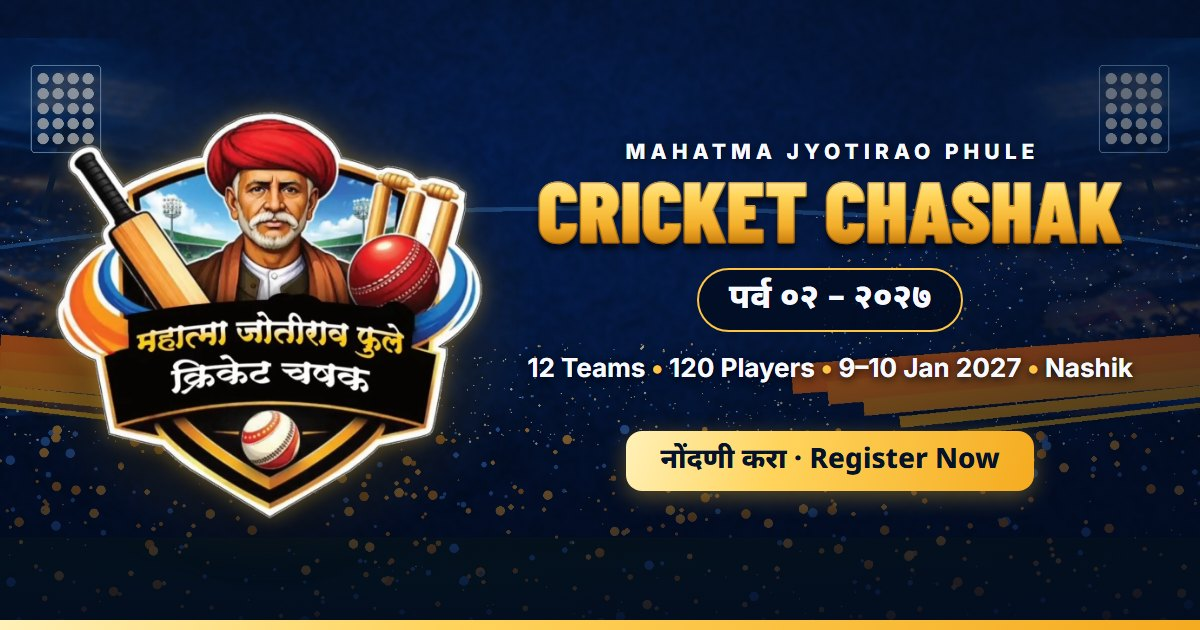
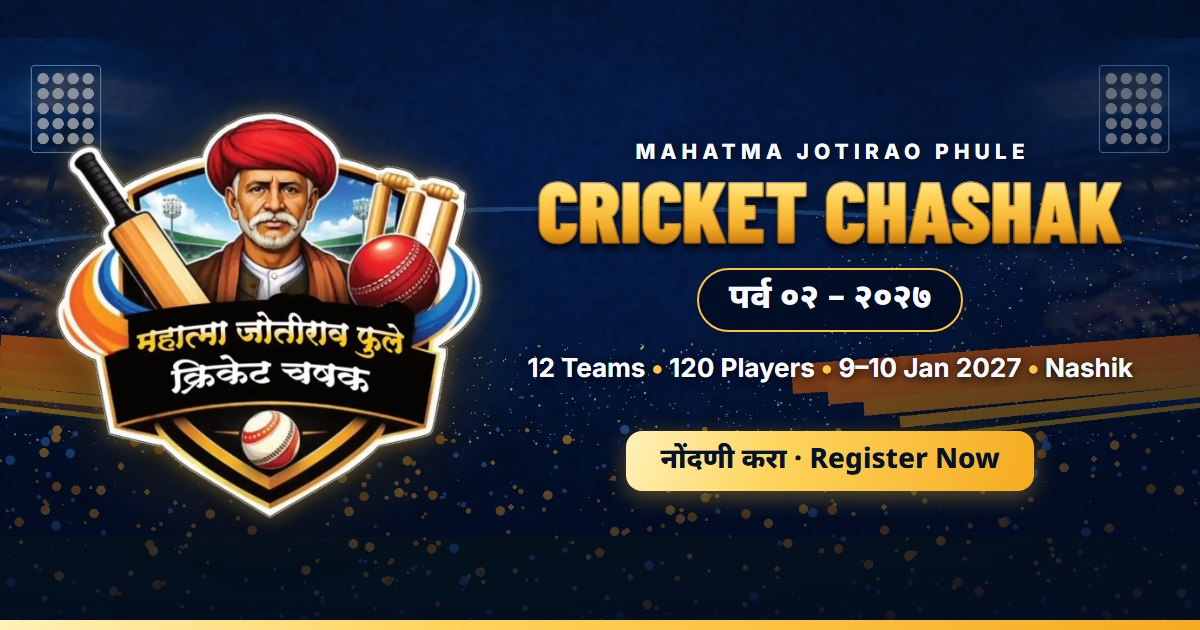
Hide prize money and update the tournament name spelling
- Prize amounts are not announced yet: all amounts set to null, so
  the prize cards, individual awards and ticker show trophies with a
  "prize money to be announced" note instead of rupee figures.
  Owner and player registration fees are unchanged.
- Tournament name is now "महात्मा जोतीराव फुले क्रिकेट चषक" /
  "Mahatma Jotirao Phule Cricket Chashak" everywhere, including the
  page title, link-preview tags and a regenerated share image.
- Marathi venue address: जायभावे फार्म.

Changed region(s): [[0.5242, 0.2111, 0.8633, 0.2714]]

diff --git a/js/config.js b/js/config.js
@@ -1,6 +1,6 @@
 /* =====================================================================
    SITE CONFIG — EDIT EVERYTHING HERE
-   महात्मा ज्योतिराव फुले क्रिकेट चषक – पर्व ०२ - २०२७
+   महात्मा जोतीराव फुले क्रिकेट चषक – पर्व ०२ - २०२७
    ---------------------------------------------------------------------
    • Text can be a plain string            "Text"
      or bilingual                          { mr: "मराठी", en: "English" }
@@ -16,8 +16,8 @@ window.SITE_CONFIG = {
 
   /* ---------- Tournament identity ---------- */
   tournament: {
-    name: { mr: "महात्मा ज्योतिराव फुले क्रिकेट चषक", en: "Mahatma Jyotirao Phule Cricket Chashak" },
-    nameLine1: { mr: "महात्मा ज्योतिराव फुले", en: "Mahatma Jyotirao Phule" },
+    name: { mr: "महात्मा जोतीराव फुले क्रिकेट चषक", en: "Mahatma Jotirao Phule Cricket Chashak" },
+    nameLine1: { mr: "महात्मा जोतीराव फुले", en: "Mahatma Jotirao Phule" },
     nameLine2: { mr: "क्रिकेट चषक", en: "Cricket Chashak" },
     shortName: { mr: "फुले क्रिकेट चषक", en: "Phule Cricket Chashak" },
     season: { mr: "पर्व ०२ – २०२७", en: "Season 02 – 2027" },
@@ -59,17 +59,19 @@ window.SITE_CONFIG = {
     ],
 
     prizes: {
-      team: [ // amounts in ₹ (numbers only)
-        { place: 1, title: { mr: "विजेता", en: "Winner" }, amount: 51000, extra: { mr: "+ भव्य चषक", en: "+ Champions Trophy" } },   // DUMMY amount
-        { place: 2, title: { mr: "उपविजेता", en: "Runner-up" }, amount: 31000, extra: { mr: "+ चषक", en: "+ Trophy" } },          // DUMMY amount
-        { place: 3, title: { mr: "तृतीय क्रमांक", en: "3rd Place" }, amount: 21000, extra: { mr: "+ चषक", en: "+ Trophy" } },     // DUMMY amount
-        { place: 4, title: { mr: "चतुर्थ क्रमांक", en: "4th Place" }, amount: 11000, extra: { mr: "+ चषक", en: "+ Trophy" } },    // DUMMY amount
+      // Prize money is not announced yet: amount: null hides it and shows "to be announced".
+      // To publish, replace null with the amount in rupees (numbers only, no commas)
+      team: [
+        { place: 1, title: { mr: "विजेता", en: "Winner" }, amount: null, extra: { mr: "+ भव्य चषक", en: "+ Champions Trophy" } },
+        { place: 2, title: { mr: "उपविजेता", en: "Runner-up" }, amount: null, extra: { mr: "+ चषक", en: "+ Trophy" } },
+        { place: 3, title: { mr: "तृतीय क्रमांक", en: "3rd Place" }, amount: null, extra: { mr: "+ चषक", en: "+ Trophy" } },
+        { place: 4, title: { mr: "चतुर्थ क्रमांक", en: "4th Place" }, amount: null, extra: { mr: "+ चषक", en: "+ Trophy" } },
       ],
       individual: [
-        { icon: "bat", title: { mr: "सर्वोत्कृष्ट फलंदाज", en: "Best Batter" }, amount: 5001, extra: { mr: "+ चषक", en: "+ Trophy" } },      // DUMMY
-        { icon: "ball", title: { mr: "सर्वोत्कृष्ट गोलंदाज", en: "Best Bowler" }, amount: 5001, extra: { mr: "+ चषक", en: "+ Trophy" } },     // DUMMY
-        { icon: "hand", title: { mr: "सर्वोत्कृष्ट क्षेत्ररक्षक", en: "Best Fielder" }, amount: 3001, extra: { mr: "+ चषक", en: "+ Trophy" } }, // DUMMY
-        { icon: "star", title: { mr: "मालिकावीर (MVP)", en: "MVP – Player of the Series" }, amount: 7001, extra: { mr: "+ चषक", en: "+ Trophy" } }, // DUMMY
+        { icon: "bat", title: { mr: "सर्वोत्कृष्ट फलंदाज", en: "Best Batter" }, amount: null, extra: { mr: "+ चषक", en: "+ Trophy" } },
+        { icon: "ball", title: { mr: "सर्वोत्कृष्ट गोलंदाज", en: "Best Bowler" }, amount: null, extra: { mr: "+ चषक", en: "+ Trophy" } },
+        { icon: "hand", title: { mr: "सर्वोत्कृष्ट क्षेत्ररक्षक", en: "Best Fielder" }, amount: null, extra: { mr: "+ चषक", en: "+ Trophy" } },
+        { icon: "star", title: { mr: "मालिकावीर (MVP)", en: "MVP – Player of the Series" }, amount: null, extra: { mr: "+ चषक", en: "+ Trophy" } },
       ],
     },
 
@@ -89,7 +91,7 @@ window.SITE_CONFIG = {
     venue: {
       name: { mr: "क्रीडाधाम प्रीमियम मल्टीस्पोर्ट क्लब", en: "Kridadham Premium Multisport Club" },
       address: {
-        mr: "जयभावे फार्म, गुरु गोविंद सिंग कॉलेजजवळ, इंदिरा नगर, नाशिक",
+        mr: "जायभावे फार्म, गुरु गोविंद सिंग कॉलेजजवळ, इंदिरा नगर, नाशिक",
         en: "Jaybhave Farm, Near Guru Gobind Singh College, Indira Nagar, Nashik",
       },
       city: { mr: "नाशिक", en: "Nashik" },
@@ -132,8 +134,8 @@ window.SITE_CONFIG = {
     // DUMMY draft – edit freely
     story: [
       {
-        mr: "२०२६ मध्ये नाशिकच्या मातीत एका नव्या क्रिकेट परंपरेचा जन्म झाला. महात्मा ज्योतिराव फुले क्रिकेट चषकाच्या पहिल्या पर्वात ११ संघ मैदानात उतरले आणि प्रेक्षकांच्या उदंड प्रतिसादात समता, बंधुता आणि खिलाडूवृत्तीचा खरा उत्सव साजरा झाला.",
-        en: "In 2026, a new cricket tradition was born on the grounds of Nashik. The first season of the Mahatma Jyotirao Phule Cricket Chashak brought 11 teams onto the field, cheered on by passionate crowds, in a true celebration of equality, brotherhood and sportsmanship.",
+        mr: "२०२६ मध्ये नाशिकच्या मातीत एका नव्या क्रिकेट परंपरेचा जन्म झाला. महात्मा जोतीराव फुले क्रिकेट चषकाच्या पहिल्या पर्वात ११ संघ मैदानात उतरले आणि प्रेक्षकांच्या उदंड प्रतिसादात समता, बंधुता आणि खिलाडूवृत्तीचा खरा उत्सव साजरा झाला.",
+        en: "In 2026, a new cricket tradition was born on the grounds of Nashik. The first season of the Mahatma Jotirao Phule Cricket Chashak brought 11 teams onto the field, cheered on by passionate crowds, in a true celebration of equality, brotherhood and sportsmanship.",
       },
       {
         mr: "प्रत्येक चौकार, प्रत्येक बळी आणि प्रत्येक झेलाने एकच संदेश दिला — मैदानात सगळे समान! पहिल्या पर्वाच्या या सुवर्ण आठवणी आता पर्व २ साठी नवी प्रेरणा आहेत.",
@@ -409,6 +411,8 @@ window.SITE_CONFIG = {
     prizesTitle: { mr: "विजयासाठी भव्य बक्षिसे", en: "Play for glory & big prizes" },
     individualAwards: { mr: "वैयक्तिक पुरस्कार", en: "Individual awards" },
     winnerPrize: { mr: "विजेत्याला", en: "for the winner" },
+    prizeTba: { mr: "बक्षीस रक्कम लवकरच जाहीर होईल", en: "Prize money to be announced soon" },
+    prizesNote: { mr: "विजेत्या संघांना आणि खेळाडूंना चषक. बक्षिसांची रक्कम लवकरच जाहीर केली जाईल.", en: "Trophies for the winning teams and players. Prize money will be announced soon." },
 
     scheduleEyebrow: { mr: "वेळापत्रक", en: "Schedule" },
     scheduleTitle: { mr: "लिलाव आणि स्पर्धेचे वेळापत्रक", en: "Auction & tournament schedule" },
@@ -421,7 +425,7 @@ window.SITE_CONFIG = {
 
     quotesEyebrow: { mr: "प्रेरणा", en: "Inspiration" },
     quotesTitle: { mr: "महात्मा फुले यांचे विचार", en: "Words of Mahatma Phule" },
-    portraitCaption: { mr: "महात्मा ज्योतिराव फुले", en: "Mahatma Jyotirao Phule" },
+    portraitCaption: { mr: "महात्मा जोतीराव फुले", en: "Mahatma Jotirao Phule" },
     portraitYears: { mr: "१८२७ – १८९०", en: "1827 – 1890" },
 
     ctaTitle: { mr: "मैदान तुमची वाट पाहतंय!", en: "The field is waiting for you!" },

diff --git a/index.html b/index.html
@@ -3,8 +3,8 @@
 <head>
   <meta charset="utf-8">
   <meta name="viewport" content="width=device-width, initial-scale=1, viewport-fit=cover">
-  <title>महात्मा ज्योतिराव फुले क्रिकेट चषक – पर्व ०२ - २०२७</title>
-  <meta name="description" content="महात्मा ज्योतिराव फुले क्रिकेट चषक – पर्व ०२ (२०२७), नाशिक. Mahatma Jyotirao Phule Cricket Chashak Season 2 – 12 teams, 120 players, 9–10 January 2027 at Kridadham, Nashik. Register now!">
+  <title>महात्मा जोतीराव फुले क्रिकेट चषक – पर्व ०२ - २०२७</title>
+  <meta name="description" content="महात्मा जोतीराव फुले क्रिकेट चषक – पर्व ०२ (२०२७), नाशिक. Mahatma Jotirao Phule Cricket Chashak Season 2 – 12 teams, 120 players, 9–10 January 2027 at Kridadham, Nashik. Register now!">
   <meta name="theme-color" content="#041632">
 
   <!-- ===== Open Graph: controls the WhatsApp / Facebook link preview =====
@@ -12,13 +12,13 @@
   <link rel="canonical" href="https://vkeychaudhari.github.io/cricket-chashak/">
   <meta property="og:type" content="website">
   <meta property="og:site_name" content="Phule Cricket Chashak">
-  <meta property="og:title" content="महात्मा ज्योतिराव फुले क्रिकेट चषक – पर्व ०२ - २०२७">
+  <meta property="og:title" content="महात्मा जोतीराव फुले क्रिकेट चषक – पर्व ०२ - २०२७">
   <meta property="og:description" content="Season 2 • 12 Teams • 120 Players • 9–10 Jan 2027 • Kridadham, Nashik. नोंदणी सुरू – Register now!">
   <meta property="og:url" content="https://vkeychaudhari.github.io/cricket-chashak/">
   <meta property="og:image" content="https://vkeychaudhari.github.io/cricket-chashak/images/og-image.jpg">
   <meta property="og:image:width" content="1200">
   <meta property="og:image:height" content="630">
-  <meta property="og:image:alt" content="Mahatma Jyotirao Phule Cricket Chashak – Season 2, 2027">
+  <meta property="og:image:alt" content="Mahatma Jotirao Phule Cricket Chashak – Season 2, 2027">
   <meta property="og:locale" content="mr_IN">
   <meta property="og:locale:alternate" content="en_IN">
   <meta name="twitter:card" content="summary_large_image">
@@ -30,11 +30,11 @@
   <link rel="preconnect" href="https://fonts.gstatic.com" crossorigin>
   <link rel="stylesheet" href="https://fonts.googleapis.com/css2?family=Barlow+Condensed:wght@700;800;900&family=Inter:wght@400;500;600;700;800&family=Noto+Sans+Devanagari:wght@400;500;600;700;800&display=swap">
   <link rel="preload" as="image" href="images/theme/logo-emblem-600.webp" imagesrcset="images/theme/logo-emblem-600.webp 600w, images/theme/logo-emblem-1000.webp 989w" imagesizes="(min-width: 1024px) 430px, 78vw" fetchpriority="high">
-  <link rel="stylesheet" href="css/style.css?v=10">
+  <link rel="stylesheet" href="css/style.css?v=12">
 
   <script>document.documentElement.classList.add('js');</script>
-  <script src="js/config.js?v=10" defer></script>
-  <script src="js/app.js?v=10" defer></script>
+  <script src="js/config.js?v=12" defer></script>
+  <script src="js/app.js?v=12" defer></script>
 </head>
 <body>
   <a class="skip" href="#main" data-t="skip"></a>
@@ -205,6 +205,7 @@
           <header class="sec-head reveal">
             <span class="eyebrow" data-t="prizesEyebrow"></span>
             <h2 data-t="prizesTitle"></h2>
+            <p class="sec-intro" id="prizesNote" data-t="prizesNote"></p>
           </header>
           <div class="prizes" id="teamPrizes"></div>
           <h3 class="sub-head reveal"><span data-t="individualAwards"></span></h3>

diff --git a/js/app.js b/js/app.js
@@ -1,5 +1,5 @@
 /* =====================================================================
-   Mahatma Jyotirao Phule Cricket Chashak — site script
+   Mahatma Jotirao Phule Cricket Chashak — site script
    All content comes from js/config.js (window.SITE_CONFIG).
    ===================================================================== */
 (function () {
@@ -216,7 +216,7 @@
       players && both((l) => `${num(players.value, l)} ${pick(players.unit, l)}`),
       tournamentRange(),
       venue.city,
-      win && both((l) => `${pick(win.title, l)} – ₹${num(win.amount, l)}`),
+      win && win.amount && both((l) => `${pick(win.title, l)} – ₹${num(win.amount, l)}`),
       label('registrationOpen'),
       C.tournament.tagline,
     ].filter(Boolean);
@@ -239,13 +239,19 @@
 
   function renderPrizes() {
     const [win, ...rest] = C.season2.prizes.team;
+    // with no amount, "+ Trophy" reads as just "Trophy"
+    const extraText = (p) => (p.amount ? p.extra : both((l) => pick(p.extra, l).replace(/^\+\s*/, '')));
+    const anyAmount = [...C.season2.prizes.team, ...C.season2.prizes.individual].some((p) => p.amount);
+    const note = $('#prizesNote');
+    if (note) note.hidden = anyAmount;
     $('#teamPrizes').innerHTML = `
       <article class="prize-win reveal">
         <div class="prize-win__in">
           <svg class="prize-win__trophy" viewBox="0 0 64 64" aria-hidden="true"><use href="#i-trophy-fill"></use></svg>
           <p class="prize-win__place">${T(win.title)}</p>
-          <p class="prize-win__amt gold-text" data-countup>₹${CN(win.amount)}</p>
-          ${win.extra ? `<p class="prize-win__extra">${T(win.extra)}</p>` : ''}
+          ${win.amount
+            ? `<p class="prize-win__amt gold-text" data-countup>₹${CN(win.amount)}</p>${win.extra ? `<p class="prize-win__extra">${T(win.extra)}</p>` : ''}`
+            : `${win.extra ? `<p class="prize-win__amt prize-win__amt--text gold-text">${T(extraText(win))}</p>` : ''}<p class="prize-win__tba">${L('prizeTba')}</p>`}
         </div>
       </article>
       <div class="prize-list">
@@ -254,7 +260,7 @@
             <span class="medal medal--${p.place}">${N(p.place)}</span>
             <div class="prize__body">
               <h3 class="prize__title">${T(p.title)}</h3>
-              ${p.extra ? `<p class="prize__extra">${T(p.extra)}</p>` : ''}
+              ${p.extra ? `<p class="prize__extra">${T(extraText(p))}</p>` : ''}
             </div>
             <p class="prize__amt">${p.amount ? rupee(p.amount) : ''}</p>
           </article>`).join('')}
@@ -265,7 +271,7 @@
         <div class="ind__icon">${icon(a.icon)}</div>
         <h4 class="ind__title">${T(a.title)}</h4>
         ${a.amount ? `<p class="ind__prize">${rupee(a.amount)}</p>` : ''}
-        ${a.extra ? `<p class="ind__extra">${T(a.extra)}</p>` : ''}
+        ${a.extra ? `<p class="ind__extra">${T(extraText(a))}</p>` : ''}
       </article>`).join('');
   }
 

diff --git a/css/style.css b/css/style.css
@@ -1,5 +1,5 @@
 /* =====================================================================
-   Mahatma Jyotirao Phule Cricket Chashak — Season 02 · 2027
+   Mahatma Jotirao Phule Cricket Chashak — Season 02 · 2027
    Theme: Navy stadium + championship gold (from the official logo).
    Mobile-first. Colours, fonts and radii live in :root.
    ===================================================================== */
@@ -413,6 +413,10 @@ html[lang="mr"] .brand__text strong { letter-spacing: 0; }
 .prize-win__place { font-weight: 700; font-size: .9rem; letter-spacing: .2em; text-transform: uppercase; color: var(--gold-300); }
 .prize-win__amt { font-family: var(--font-display); font-weight: 900; font-size: clamp(3.2rem, 15vw, 5.6rem); line-height: 1; }
 .prize-win__extra { font-size: 1.08rem; font-weight: 600; color: rgba(249, 250, 255, .88); }
+.prize-win__amt--text { font-size: clamp(2.3rem, 9.5vw, 3.8rem); text-transform: uppercase; }
+.prize-win__tba { margin-top: 6px; padding: 6px 14px; border-radius: 999px; border: 1px dashed rgba(255, 196, 67, .45); color: var(--gold-300); font-size: .9rem; font-weight: 600; }
+.sec-intro { max-width: 62ch; margin: 16px auto 0; color: var(--muted); font-size: 1.02rem; }
+.sec-intro[hidden] { display: none; }
 
 .prize-list { display: grid; grid-template-columns: repeat(3, 1fr); gap: 10px; }
 .prize {
@@ -1146,6 +1150,7 @@ html[lang="mr"] .ticker__item { font-size: 1rem; }
 html[lang="mr"] .cd__num { font-size: clamp(2rem, 9.6vw, 3.6rem); line-height: 1.15; }
 html[lang="mr"] .stat__num { font-size: clamp(2.2rem, 9.4vw, 3.4rem); line-height: 1.2; }
 html[lang="mr"] .prize-win__amt { font-size: clamp(2.6rem, 12vw, 4.4rem); line-height: 1.2; }
+html[lang="mr"] .prize-win__amt--text { font-size: clamp(2.2rem, 9vw, 3.4rem); line-height: 1.3; }
 html[lang="mr"] .prize__amt { font-size: clamp(1.1rem, 4.6vw, 1.8rem); }
 html[lang="mr"] .s1-stat b { font-size: 2.2rem; line-height: 1.2; }
 html[lang="mr"] .pod__step { font-size: clamp(2rem, 7.5vw, 3.4rem); line-height: 1.1; }

diff --git a/tools/og-image.html b/tools/og-image.html
@@ -36,7 +36,7 @@
   <div class="wrap">
     <div class="emblem"><img src="../images/theme/logo-emblem-1000.webp" alt=""></div>
     <div class="text">
-      <div class="kicker">Mahatma Jyotirao Phule</div>
+      <div class="kicker">Mahatma Jotirao Phule</div>
       <h1>Cricket Chashak</h1>
       <div class="pill">पर्व ०२ – २०२७</div>
       <p class="meta">12 Teams <b>•</b> 120 Players <b>•</b> 9–10 Jan 2027 <b>•</b> Nashik</p>

diff --git a/README.md b/README.md
@@ -1,6 +1,6 @@
-# महात्मा ज्योतिराव फुले क्रिकेट चषक – पर्व ०२ - २०२७
+# महात्मा जोतीराव फुले क्रिकेट चषक – पर्व ०२ - २०२७
 
-Website for the **Mahatma Jyotirao Phule Cricket Chashak, Season 2 (2027)**. It's a bilingual (Marathi + English), mobile-first site with two tabs: **Season 2** and **Season 1 Success Story**.
+Website for the **Mahatma Jotirao Phule Cricket Chashak, Season 2 (2027)**. It's a bilingual (Marathi + English), mobile-first site with two tabs: **Season 2** and **Season 1 Success Story**.
 
 Plain HTML, CSS and JavaScript. No build step, no installs, and it's free to host.
 
